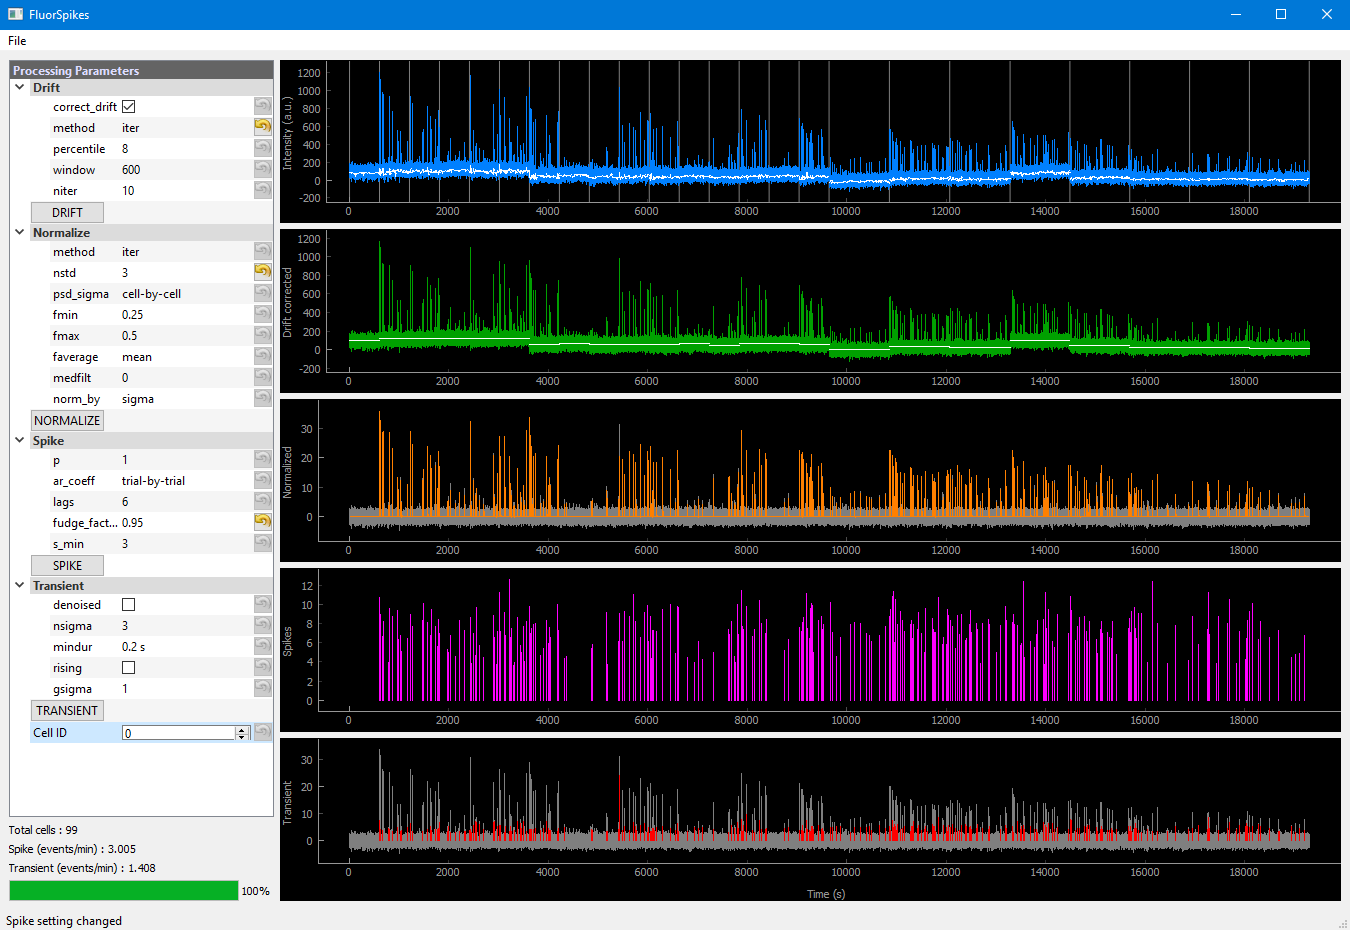
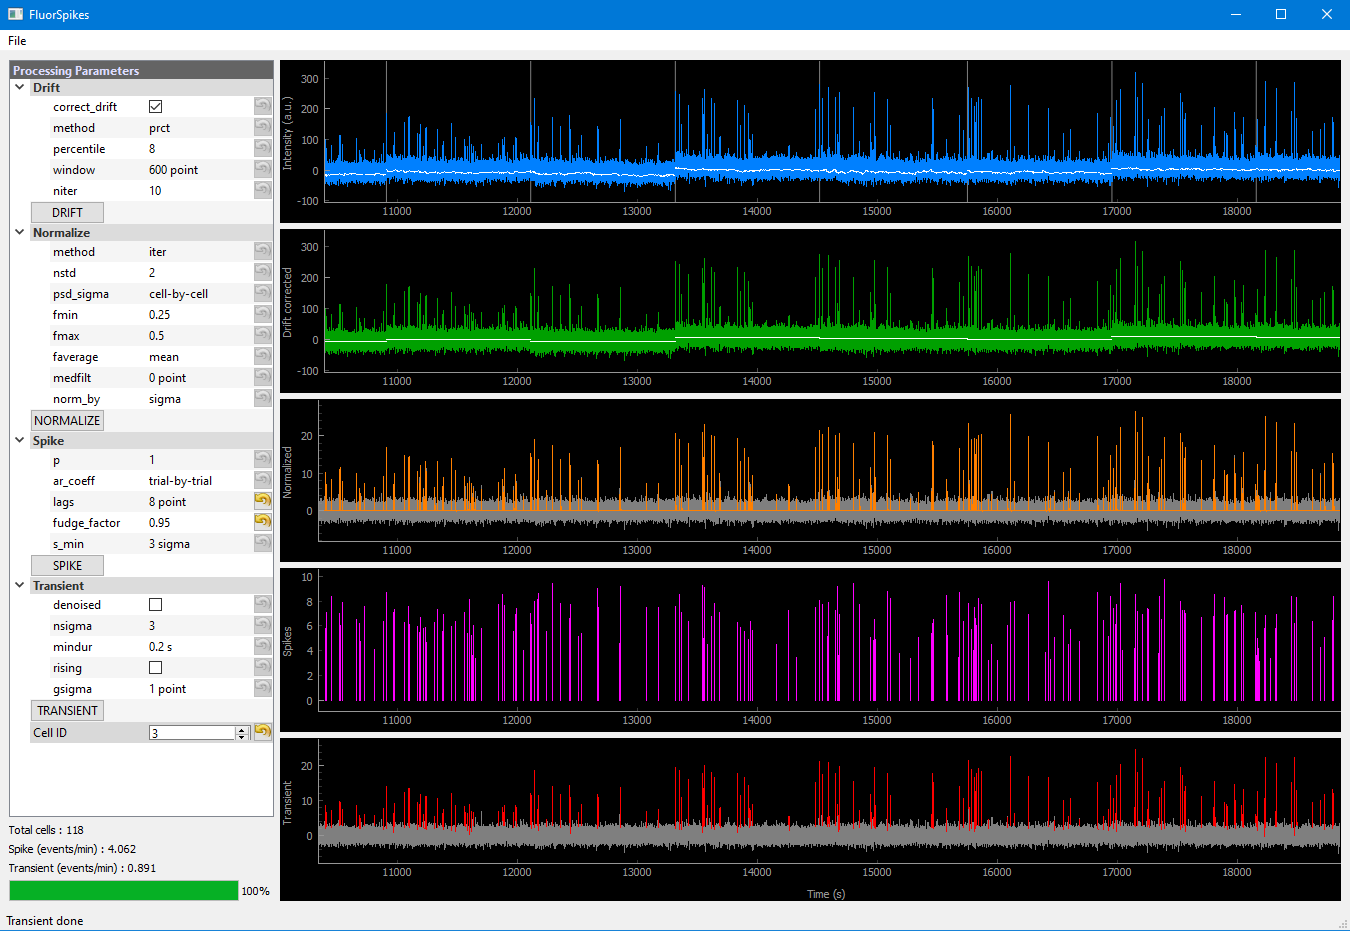
Update plot_transient
Plot transient parts in red instead of event plot

diff --git a/fluorspikes/fluorspikes_caiman.py b/fluorspikes/fluorspikes_caiman.py
@@ -667,13 +667,15 @@ class MainWindow(QtWidgets.QMainWindow):
             fs = self.F2[this_cell]
         self.p5.plot(ts, fs, pen=0.5)  # Gray
         if self.params['Transient']['rising']:
-            tt = self.Gr_[this_cell]  # Indicate the 1st peak of each transient
+            tt = self.Gr_[this_cell]  # Indicate the transient start time
+            self.p5.plot(ts, fs, connect=self.Gr[this_cell], pen='r')  # Red
         else:
             tt = self.G_[this_cell]
-        events = np.sum(tt)
-        stems = np.vstack([np.zeros(events), fs[tt]]).ravel(order='F')
-        self.p5.plot(np.repeat(ts[tt],2), stems, connect='pairs', pen='r')  # Stem plot
-        self.label3.setText('Transient (events/min) : %.4g' % (60*events/(T/self.fps)))
+            self.p5.plot(ts, fs, connect=self.G[this_cell], pen='r')  # Red
+        n_events = np.sum(tt)
+        # stems = np.vstack([np.zeros(n_events), fs[tt]]).ravel(order='F')
+        # self.p5.plot(np.repeat(ts[tt],2), stems, connect='pairs', pen='r')  # Stem plot
+        self.label3.setText('Transient (events/min) : %.4g' % (60*n_events/(T/self.fps)))
 
     def change_cell(self):
         '''Update plots when Cell ID is changed

diff --git a/fluorspikes/fluorspikes_suite2p.py b/fluorspikes/fluorspikes_suite2p.py
@@ -873,14 +873,14 @@ class MainWindow(QtWidgets.QMainWindow):
             fs = self.F3[this_cell]
         self.p5.plot(ts, fs, pen=0.5)  # Gray
         if self.par.child('Transient').param('rising').value():
-            tt = self.Gr_[this_cell]  # Indicate the 1st peak of each transient
+            tt = self.Gr_[this_cell]  # Indicate the transient start time
+            self.p5.plot(ts, fs, connect=self.Gr[this_cell], pen='r')  # Red
         else:
             tt = self.G_[this_cell]
-        n_events = np.sum(tt)  # Transient start time
+            self.p5.plot(ts, fs, connect=self.G[this_cell], pen='r')  # Red
+        n_events = np.sum(tt)
         # stems = np.vstack([np.zeros(n_events), fs[tt]]).ravel(order='F')
         # self.p5.plot(np.repeat(ts[tt],2), stems, connect='pairs', pen='r')  # Stem plot
-        self.p5.plot(ts, fs, pen=0.5)  # Gray
-        self.p5.plot(ts, fs, connect=self.G[this_cell], pen='r')  # Red
         self.label3.setText('Transient (events/min) : %.4g' % (60*n_events/(self.T/self.fps)))
 
     def change_cell(self):
